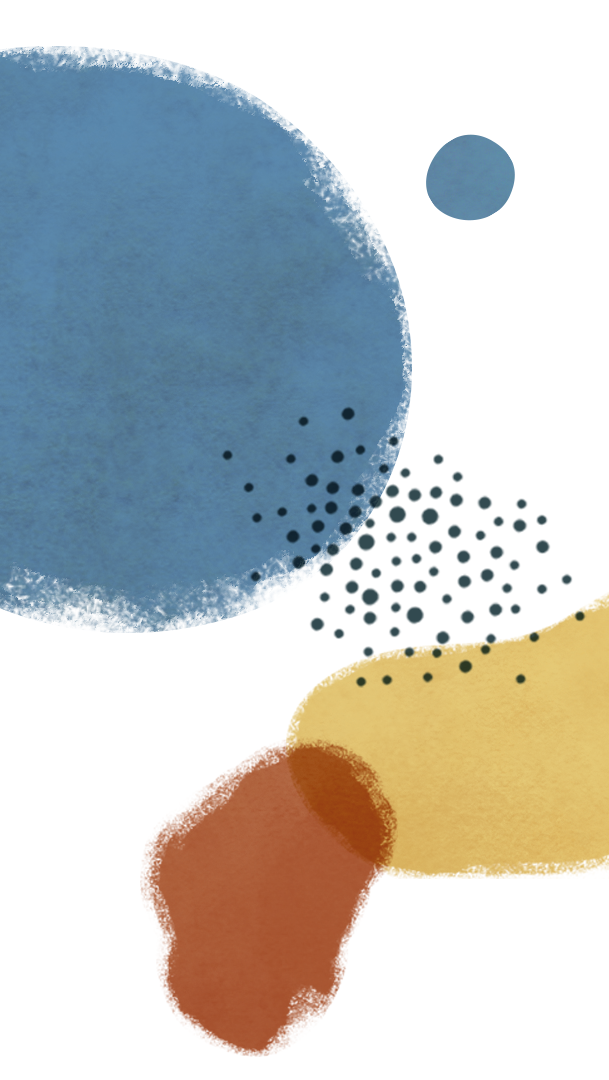
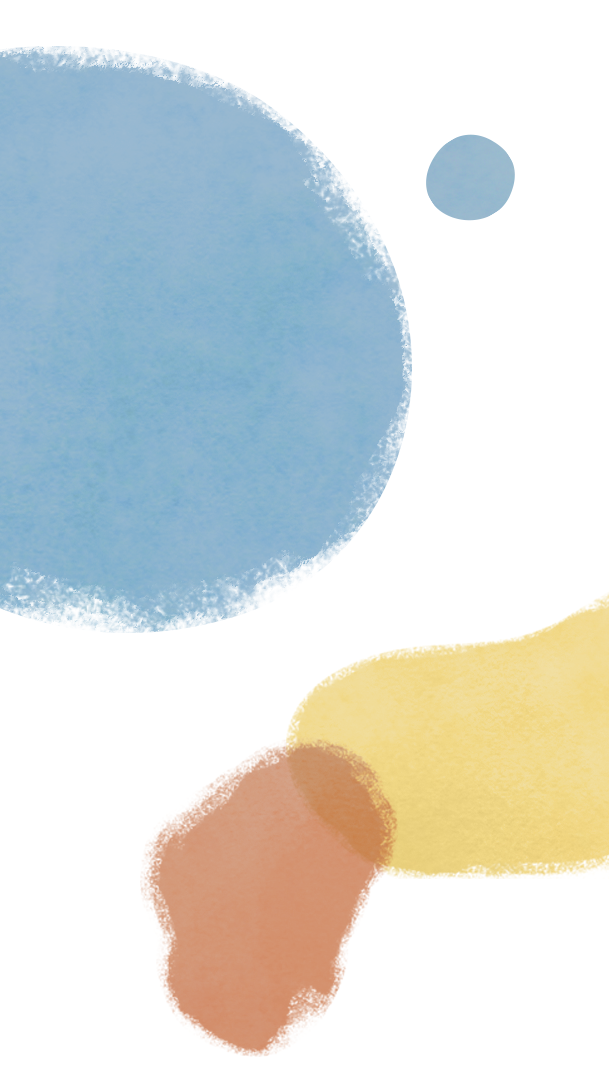
style: general form

diff --git a/components/pages/FormRsvp/index.js b/components/pages/FormRsvp/index.js
@@ -32,6 +32,7 @@ const FormRsvp = ({ layout, language }) => {
   const [kid, addKid] = useState(false);
   const [isLoading, setLoading] = useState(false);
   const [isSuccess, setSuccess] = useState();
+  const [isErrorForm, setErrorForm] = useState(false);
   window.addEventListener('scroll', scrollControll);
 
   const handleChangeGuest = () => {
@@ -79,7 +80,10 @@ const FormRsvp = ({ layout, language }) => {
         query: { isKid: kid, success: isSuccess },
       });
     },
-    onError: console.log,
+    onError: async () => {
+      await setLoading(false);
+      await setErrorForm(true);
+    },
   });
 
   const handleArrow = () =>
@@ -93,7 +97,7 @@ const FormRsvp = ({ layout, language }) => {
       sx={styles.section(
         kid && plusOne,
         imageRoutes?.desktop_0_back,
-        imageRoutes?.mobile_0_back3,
+        imageRoutes?.mobile_0_back4,
       )}
     >
       <Box
@@ -111,7 +115,7 @@ const FormRsvp = ({ layout, language }) => {
               option2={optionsRadio?.[1]}
               name="guest_plusOne"
               errors={errors}
-              disabled={isLoading || isSuccess}
+              disabled={isLoading || isSuccess || isErrorForm}
               errorMessage={errorMessage}
             />
             <FormRadio
@@ -122,7 +126,7 @@ const FormRsvp = ({ layout, language }) => {
               option2={optionsRadio?.[1]}
               name="kids"
               errors={errors}
-              disabled={isLoading || isSuccess}
+              disabled={isLoading || isSuccess || isErrorForm}
               errorMessage={errorMessage}
             />
           </Flex>
@@ -137,7 +141,7 @@ const FormRsvp = ({ layout, language }) => {
             isRequired
             selectBus
             language={language}
-            disabled={isLoading || isSuccess}
+            disabled={isLoading || isSuccess || isErrorForm}
             errorMessage={errorMessage}
           />
           <FormAdult
@@ -149,7 +153,7 @@ const FormRsvp = ({ layout, language }) => {
             name="guest_"
             isRequired={!!plusOne}
             language={language}
-            disabled={isLoading || !plusOne || isSuccess}
+            disabled={isLoading || !plusOne || isSuccess || isErrorForm}
             errorMessage={errorMessage}
           />
           <FormTextArea
@@ -166,20 +170,28 @@ const FormRsvp = ({ layout, language }) => {
             }
             register={register}
             errors={errors}
-            disabled={isLoading || isSuccess}
+            disabled={isLoading || isSuccess || isErrorForm}
             errorMessage={errorMessage}
           />
           {!isLoading && (
             <Button
               sx={styles.button}
               type="submit"
-              disabled={isLoading || isSuccess}
+              disabled={isLoading || isSuccess || isErrorForm}
             >
               {!isLoading && !isSuccess ? caption : isSuccess && success}
             </Button>
           )}
-          {isLoading && <Spinner sx={styles.spinner} variant="spinner.form" />}
-
+          {isLoading && !isErrorForm && (
+            <Spinner sx={styles.spinner} variant="spinner.form" />
+          )}
+          {isErrorForm && (
+            <Box
+              sx={styles.errorForm}
+            >
+              Error en el formulario, por favor contacte a los novios
+            </Box>
+          )}
           <Flex sx={styles?.rowCenter}>
             <Image
               loading="lazy"

diff --git a/styles/forms.js b/styles/forms.js
@@ -7,9 +7,9 @@ export const forms = {
     borderRadius: '0px',
     fontFamily: 'regular',
     color: 'text',
-    '&:disabled':{
-      color:'red'
-    }
+    '&:disabled': {
+      opacity: '0.5',
+    },
   },
   label: {
     display: 'flex',
@@ -18,18 +18,29 @@ export const forms = {
     fontSize: 2,
     letterSpacing: '2px',
     mt: '10px',
-    '&:disabled':{
-      color:'red'
-    }
+    '&:disabled': {
+      opacity: '0.5',
+    },
+  },
+  labelDisabled: {
+    display: 'flex',
+    alignItems: 'center',
+    fontFamily: 'regular',
+    fontSize: 2,
+    letterSpacing: '2px',
+    mt: '10px',
+    opacity: '0.5',
   },
   radio: {
+    variant: 'forms.input',
     color: 'blue',
+    boxShadow: 'none',
+    bg: 'transparent',
   },
   checkbox: {
     color: 'blue',
   },
   textarea: {
     variant: 'forms.input',
-    resize: 'vertical',
   },
 };

diff --git a/components/pages/FormRsvp/styles.js b/components/pages/FormRsvp/styles.js
@@ -4,12 +4,12 @@ const styles = {
     my: '100px',
     backgroundImage: [`url(${srcMobile || src})`, `url(${src})`],
     backgroundRepeat: 'no-repeat',
-    backgroundSize: ['contain', 'cover'],
+    backgroundSize: ['100vw 150vh', 'contain'],
     backgroundPosition: 'initial',
-    height: 'auto',
-    width: '100vw',
-    maxWidth: '100%',
-    maxHeight: ['200vh', 'calc(100vh + 85px)'],
+    height: '150vh',
+    width: ['auto', '100vw'],
+    maxWidth: ['auto', '100%'],
+    maxHeight: ['100%', 'calc(100vh + 85px)'],
     p: '0px',
   }),
   container: {
@@ -61,6 +61,15 @@ const styles = {
   },
   rowCenter: {
     justifyContent: 'center',
+  },
+  errorForm: {
+    width: '100%',
+    p: '5px',
+    bg: '#CB704A',
+    textAlign: 'center',
+    borderRadius: '10px',
+    color: 'white',
+    mb: '20px',
   },
 };
 

diff --git a/components/Commons/FormTextArea/index.js b/components/Commons/FormTextArea/index.js
@@ -1,6 +1,6 @@
 /** @jsxImportSource theme-ui */
 import { PropTypes } from 'prop-types';
-import { Flex, Input, Label, Text, Textarea } from 'theme-ui';
+import { Flex, Label, Text, Textarea } from 'theme-ui';
 
 import styles from './styles';
 
@@ -12,12 +12,13 @@ const FormTextArea = ({
   errors,
   errorMessage,
   isHidden,
+  disabled,
   ...props
 }) => (
   <Flex sx={styles?.field}>
-    {label && <Label>{label}</Label>}
+    {label && <Label variant={!disabled ? 'forms.label' : 'forms.labelDisabled'}>{label}</Label>}
 
-    <Textarea {...register(name, { required: isRequired })} {...props} />
+    <Textarea disabled={disabled} {...register(name, { required: isRequired })} {...props} />
     {errors?.[name]?.type === 'required' && (
       <Text variant="error">{errorMessage}</Text>
     )}

diff --git a/components/Commons/FormRadio/index.js b/components/Commons/FormRadio/index.js
@@ -18,9 +18,9 @@ const FormRadio = ({
   ...props
 }) => (
   <Box sx={styles.field}>
-    <Label>{label}</Label>
+    <Label variant={!disabled ? 'forms.label' : 'forms.labelDisabled'}>{label}</Label>
     <Flex>
-      <Label>
+      <Label variant={!disabled ? 'forms.label' : 'forms.labelDisabled'}>
         <Radio
           {...register(name, { required: true })}
           {...props}
@@ -31,7 +31,7 @@ const FormRadio = ({
         />
         <p sx={{ m: '0' }}>{option1}</p>
       </Label>
-      <Label>
+      <Label variant={!disabled ? 'forms.label' : 'forms.labelDisabled'}>
         <Radio
           {...register(name, { required: true })}
           type="radio"

diff --git a/components/Commons/FormAdult/index.js b/components/Commons/FormAdult/index.js
@@ -21,7 +21,7 @@ const FormAdult = ({
 }) => (
   <>
     <Themed.h3 sx={styles.heading(disabled)}>{title}</Themed.h3>
-    <Flex sx={styles.row(disabled)}>
+    <Flex sx={styles.row}>
       <FormInput
         label={language === 'es' ? 'Nombre *' : 'First name *'}
         name={`${name}name`}
@@ -44,7 +44,7 @@ const FormAdult = ({
       />
     </Flex>
 
-    <Flex sx={styles.row(disabled)}>
+    <Flex sx={styles.row}>
       <FormSelect
         label={language === 'es' ? 'Menú *' : 'Menu *'}
         name={`${name}diet`}

diff --git a/constants/imageRoutes.js b/constants/imageRoutes.js
@@ -12,6 +12,7 @@ export default {
   mobile_0_Home_back: '/static/assets/images/mobile_0_Home_back.png',
   desktop_0_back: '/static/assets/images/desktop_0_back.png',
   mobile_0_back3: '/static/assets/images/mobile_0_back3.png',
+  mobile_0_back4: '/static/assets/images/mobile_0_back4.png',
   desktop_2_Finca: '/static/assets/images/desktop_2_Finca.png',
   desktop_1_Gotis: '/static/assets/images/desktop_1_Gotis.png',
   mancha_1: '/static/assets/images/mancha_1.png',

diff --git a/components/Commons/FormInput/index.js b/components/Commons/FormInput/index.js
@@ -16,7 +16,11 @@ const FormInput = ({
   ...props
 }) => (
   <Flex sx={styles?.field}>
-    {label && <Label>{label}</Label>}
+    {label && (
+      <Label variant={!disabled ? 'forms.label' : 'forms.labelDisabled'}>
+        {label}
+      </Label>
+    )}
     <Input
       {...register(name, { required: isRequired })}
       {...props}

diff --git a/components/Commons/FormSelect/index.js b/components/Commons/FormSelect/index.js
@@ -17,7 +17,7 @@ const FormSelect = ({
   ...props
 }) => (
   <Box sx={styles.field}>
-    {label && <Label>{label}</Label>}
+    {label && <Label variant={!disabled ? 'forms.label' : 'forms.labelDisabled'}>{label}</Label>}
     <Controller
       name={name}
       control={control}

diff --git a/components/Commons/FormAdult/styles.js b/components/Commons/FormAdult/styles.js
@@ -10,10 +10,9 @@ const styles = {
     fontFamily: 'headingBold',
     opacity: disabled && '0.5',
   }),
-  row: (disabled = false) => ({
+  row: {
     flexDirection: ['column', 'row'],
-    opacity: disabled && '0.5',
-  }),
+  },
 };
 
 export default styles;
